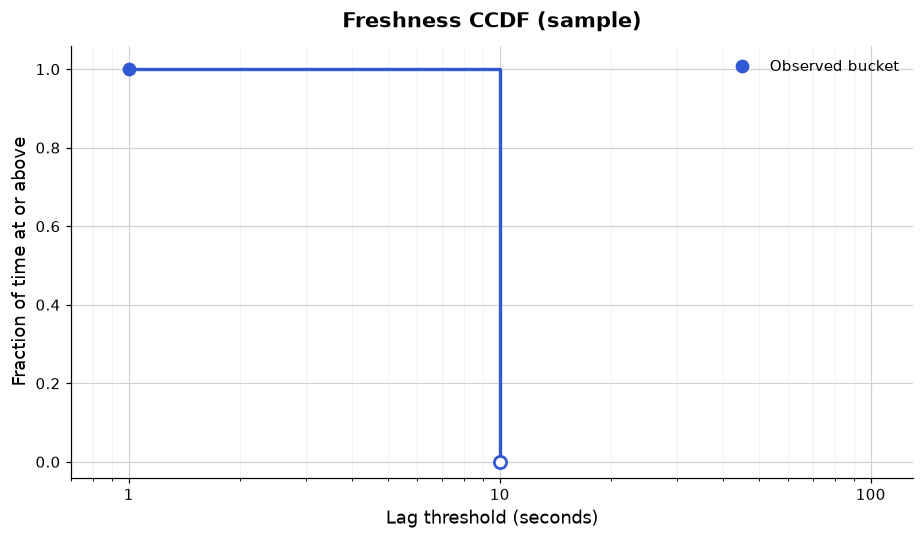
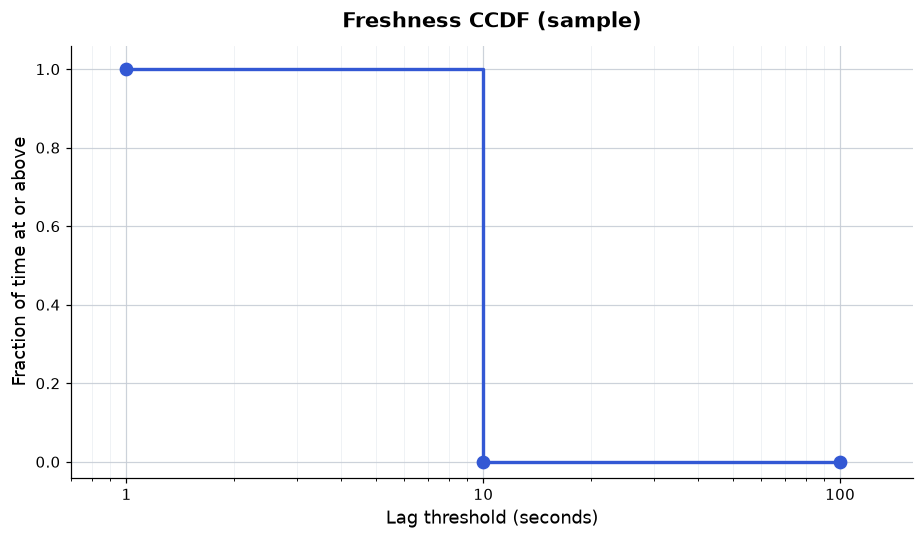
docs: use fixed 1s/10s/100s thresholds for the freshness CCDF
Replace the observed-only decade bucketing with a fixed set of decade
thresholds (1, 10, 100 seconds) so the CCDF always emits all three rows, even
when the larger thresholds have zero observations. Update the sample output to
the real 3-row result from the emulator and regenerate the chart to plot all
three thresholds.

Claude-Session: https://claude.ai/code/session_01DKZ3f7LfHKxAFkhsz2zoxP

diff --git a/doc/user/content/transform-data/monitor-freshness.md b/doc/user/content/transform-data/monitor-freshness.md
@@ -82,36 +82,31 @@ at a time series, you can make statements like "the p99 freshness was 1s".
 
 The following query builds a freshness CCDF across every object from the last 24
 hours of history. It reads the fast, indexed
-`mz_internal.mz_wallclock_global_lag_recent_history`, buckets each observation
-into decade (power-of-ten) buckets, and then sums the tail of the histogram to
-produce `(lag_threshold_seconds, fraction_of_time_at_or_above)` pairs:
+`mz_internal.mz_wallclock_global_lag_recent_history` and, for a fixed set of
+decade thresholds (1, 10, and 100 seconds), reports the fraction of observations
+whose lag was at or above each threshold. The fixed thresholds mean every run
+returns all three rows, even when the larger thresholds have no observations:
 
 ```mzsql
 WITH lags AS (
     -- Convert each lag to seconds, dropping unhydrated (NULL) observations and
-    -- any non-positive lag, since the log scale is undefined at or below zero.
+    -- any non-positive lag.
     SELECT extract(epoch FROM wl.lag) AS lag_seconds
     FROM mz_internal.mz_wallclock_global_lag_recent_history wl
     WHERE wl.lag IS NOT NULL
       AND wl.lag > INTERVAL '0'
 ),
-histogram AS (
-    -- Decade bucket: floor each lag to its power of ten, so lags land in
-    -- 0.1, 1, 10, 100, ... second buckets ([1, 10) -> 1, [10, 100) -> 10).
-    SELECT
-        pow(10.0, floor(log10(lag_seconds))) AS lag_bucket,
-        count(*) AS frequency
-    FROM lags
-    GROUP BY 1
+thresholds AS (
+    -- Fixed decade thresholds, so the CCDF always reports 1s, 10s, and 100s.
+    SELECT unnest(ARRAY[1, 10, 100]) AS lag_threshold_seconds
 )
 SELECT
-    h.lag_bucket AS lag_threshold_seconds,
-    sum(g.frequency)::float8
-        / (SELECT sum(frequency) FROM histogram) AS fraction_of_time_at_or_above
-FROM histogram g, histogram h
-WHERE g.lag_bucket >= h.lag_bucket   -- complement: sum the tail at or above the threshold
-GROUP BY h.lag_bucket
-ORDER BY h.lag_bucket;
+    t.lag_threshold_seconds,
+    count(*) FILTER (WHERE l.lag_seconds >= t.lag_threshold_seconds)::float8
+        / count(*) AS fraction_of_time_at_or_above
+FROM thresholds t, lags l
+GROUP BY t.lag_threshold_seconds
+ORDER BY t.lag_threshold_seconds;
 ```
 
 The query returns output like the following:
@@ -120,20 +115,22 @@ The query returns output like the following:
  lag_threshold_seconds | fraction_of_time_at_or_above
 -----------------------+------------------------------
                      1 |                            1
-(1 row)
+                    10 |                            0
+                   100 |                            0
+(3 rows)
 ```
 
-Read this as: every observation of positive lag fell in the 1-second decade
-bucket, so lag was at or above 1 second 100% of the time and never reached the
-10-second bucket. The curve is a single step, the healthy shape for an instance
-whose objects all sit at a low, near-constant lag.
+Read this as: lag was at or above 1 second 100% of the time and never reached 10
+seconds or 100 seconds (0% at or above each). The curve drops off sharply after
+1 second, the healthy shape for an instance whose objects all sit at a low,
+near-constant lag.
 
-![Freshness CCDF plotted from the sample output: the fraction of time at or above is 1.0 at the 1-second threshold and drops to 0 above 10 seconds, forming a single step](/images/freshness-ccdf-sample.png)
+![Freshness CCDF plotted from the sample output at the 1-, 10-, and 100-second thresholds: the fraction of time at or above is 1.0 at 1 second and 0 at both 10 and 100 seconds](/images/freshness-ccdf-sample.png)
 
 The chart above is generated from the sample output, captured on a lightly
-loaded local instance where every observation landed in the 1-second bucket. A
-production instance under real load shows a longer tail, with points extending
-into the 10-second and 100-second thresholds.
+loaded local instance where all lag stayed under 10 seconds, so the 10-second
+and 100-second thresholds sit at zero. A production instance under real load
+would show non-zero fractions at those higher thresholds.
 
 By default this query aggregates across every object. To scope the CCDF to a
 single object, add a join to `mz_catalog.mz_objects` and a name filter to the
